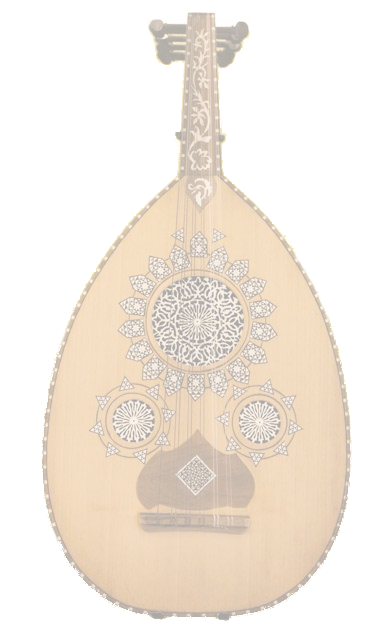
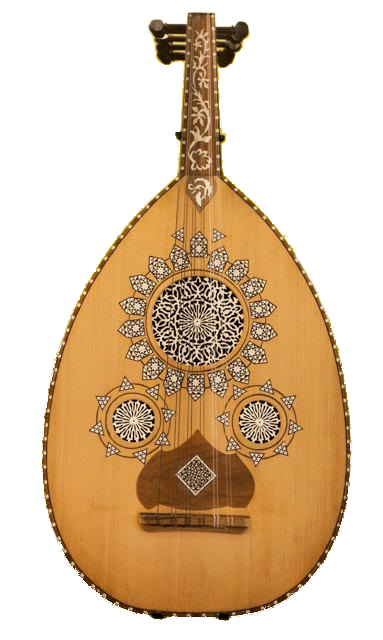
Chanche front page images and styles

diff --git a/carnatic/static/carnatic/css/index.css b/carnatic/static/carnatic/css/index.css
@@ -122,37 +122,37 @@ body {
 }
 
 .carnatic{
-    background-color: #f1ab39;
-    background-blend-mode: multiply;
+    background-color: rgba(241,171,57,0.9);
+    background-blend-mode: soft-light;
     background-position: 30% 20%; 
     background-size: 148%;
     background-image: url(/static/carnatic/img/carnatic.png);
 }
 .hindustani{
-    background-color: #6d9a1a;
-    background-blend-mode: multiply;
+    background-color: rgba(109,154,26,0.9);
+    background-blend-mode: soft-light;
     background-position: -6px 39%; 
     background-size: 119%;
     background-image: url(/static/carnatic/img/hindustani.png);
 }
 .makam{
-    background-color: #3a8b8b;
-    background-blend-mode: multiply;
+    background-color: rgba(58,139,139,0.9);
+    background-blend-mode: soft-light;
     background-position: 44% 55%; 
     background-size: 95%;
     background-image: url(/static/carnatic/img/makam.png);
 }
 .jingju{
-    background-color: #b3411e;
-    background-blend-mode: multiply;
+    background-color: rgba(179,65,30,0.9);
+    background-blend-mode: soft-light;
     background-position: 96% 73%; 
     background-size: 94%;
     background-image: url(/static/carnatic/img/jingju.png);
     
 }
 .andalusi{
-    background-color: #0e213d;
-    background-blend-mode: multiply;
+    background-color: rgba(14,33,61,0.9);
+    background-blend-mode: soft-light;
     background-position: 19% 27%;
     background-size: 191%;
     background-image: url(/static/carnatic/img/andalusi.png);
